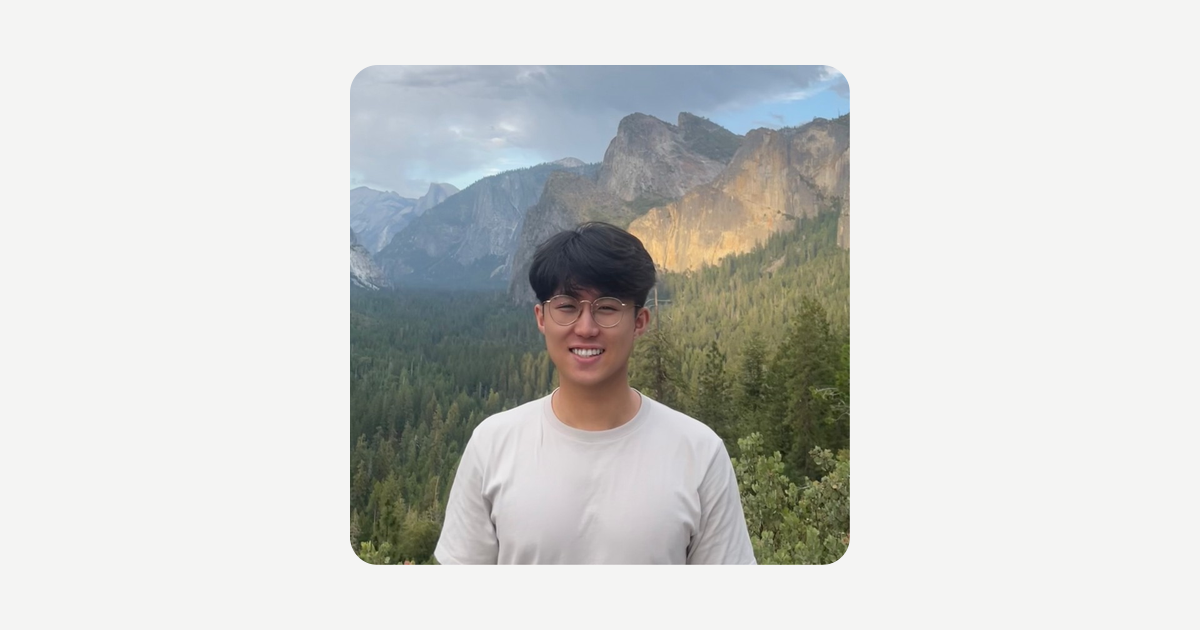
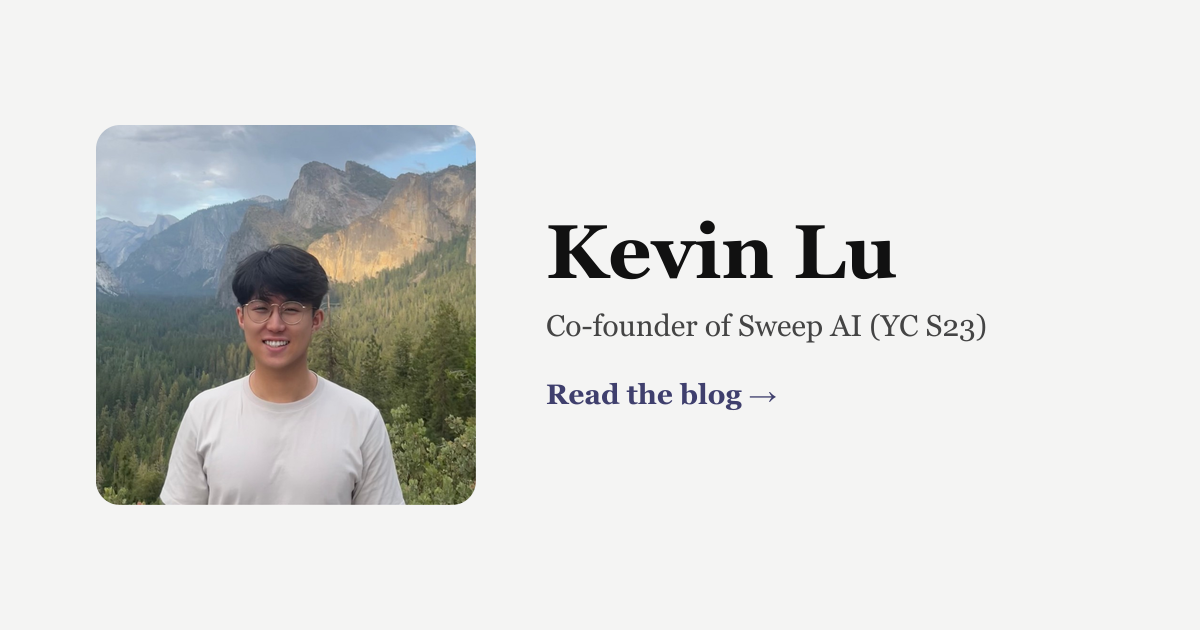
SEO/OG: add og:site_name, longer meta descriptions, headline+CTA on OG image
- Add og:site_name (was missing — cards looked anonymous)
- Expand short meta descriptions (home, about, blog index) toward 120-160 chars
- Regenerate og-default.png with a "Kevin Lu" headline, role, and CTA

diff --git a/src/consts.ts b/src/consts.ts
@@ -3,4 +3,4 @@
 
 export const SITE_TITLE = 'Kevin Lu';
 export const SITE_DESCRIPTION =
-	'Co-founder of Sweep AI (YC 23). Writing about AI, engineering, and building things.';
+	'Kevin Lu — co-founder of Sweep AI (YC S23), previously an ML engineer at Roblox. I write about large language models, fine-tuning, inference, and developer tools.';
